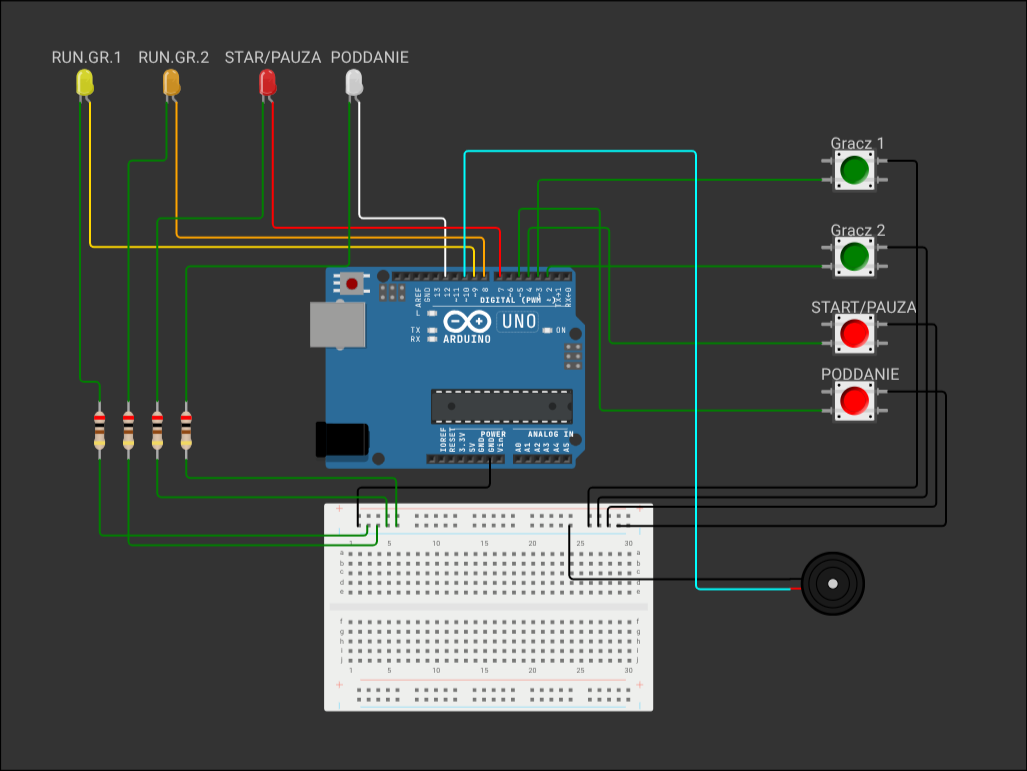
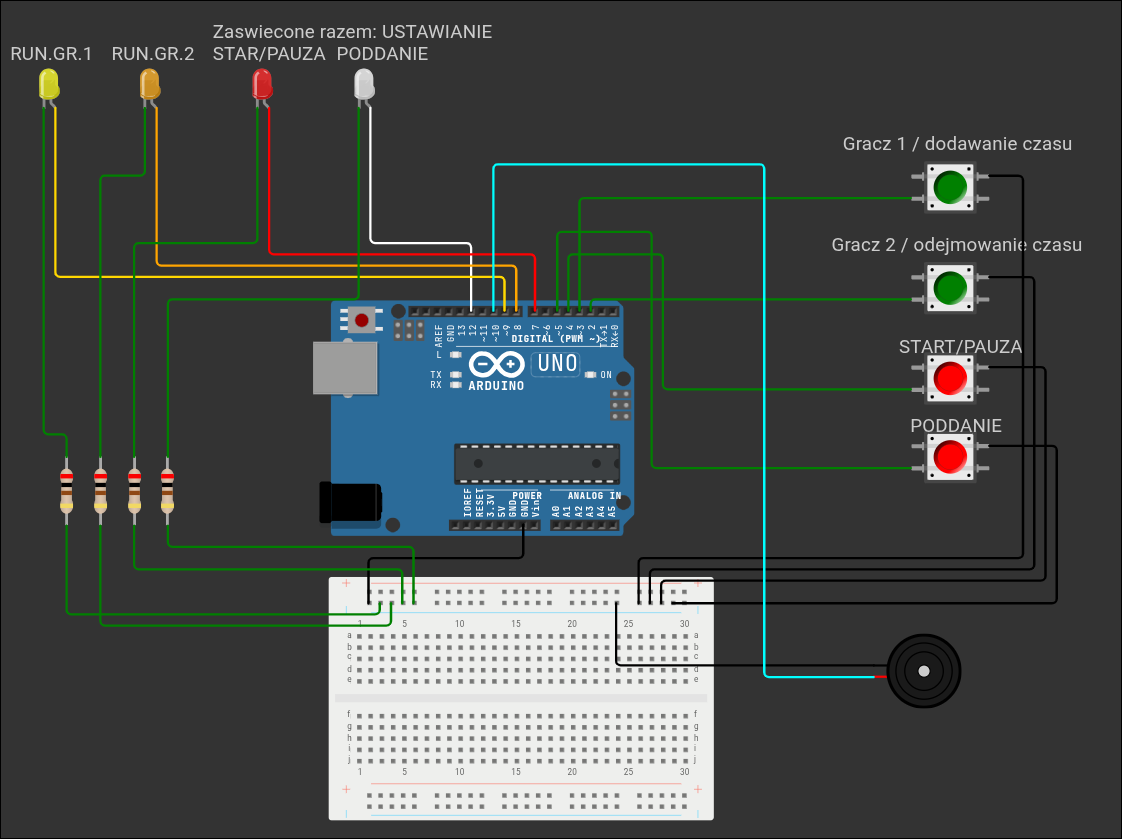
dodanie nowego ukladu oraz zmiana dlugosci dzwieku dla dodawania i odejmowania czasu

Changed region(s): [[0.0, 0.0311, 0.9659, 0.9961], [0.0312, 0.4981, 0.0623, 0.5292]]

diff --git a/src/main.c b/src/main.c
@@ -90,9 +90,15 @@ int main(void) {
         // przycisk2 = odejmowanie czasu
         if (zdarzenia & ZDARZENIE_GRACZ_1) {
           czasUstaw(czasPobierzUstawiony() + 1);
+          buzzlerWlacz(100);
+          _delay_ms(100);
+          buzzlerWylacz();
         }
         if (zdarzenia & ZDARZENIE_GRACZ_2) {
           czasUstaw(czasPobierzUstawiony() - 1);
+          buzzlerWlacz(900);
+          _delay_ms(100);
+          buzzlerWylacz();
         }
         if (zdarzenia & ZDARZENIE_START) {
           stanAktualny = STOP;
